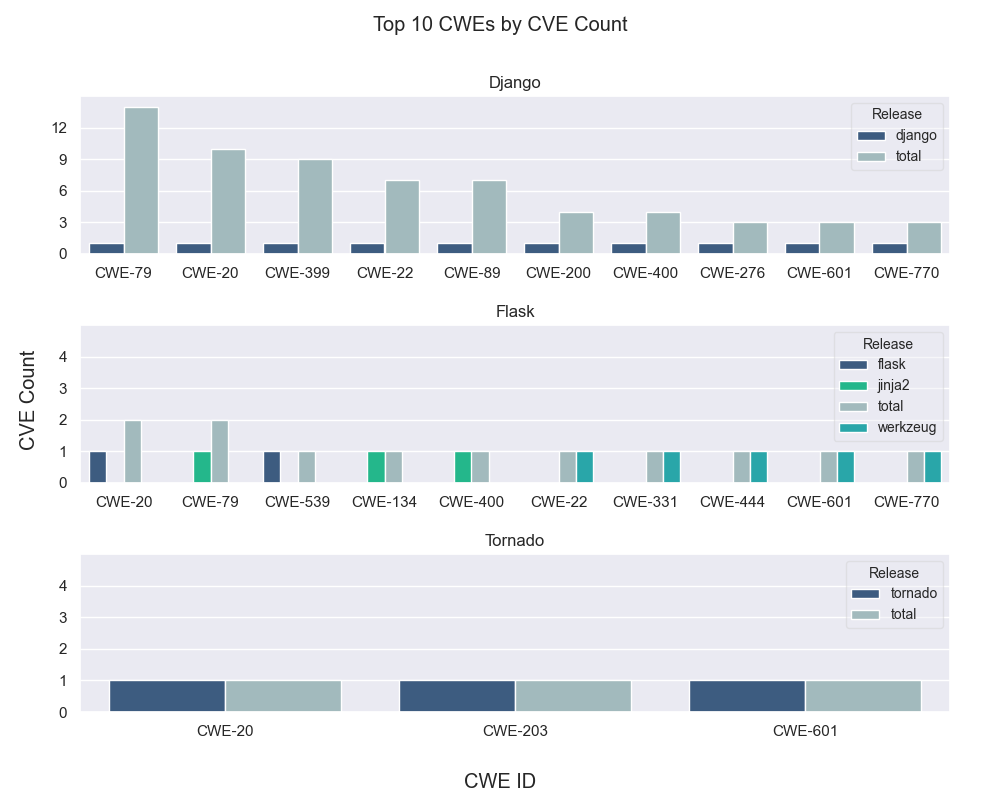
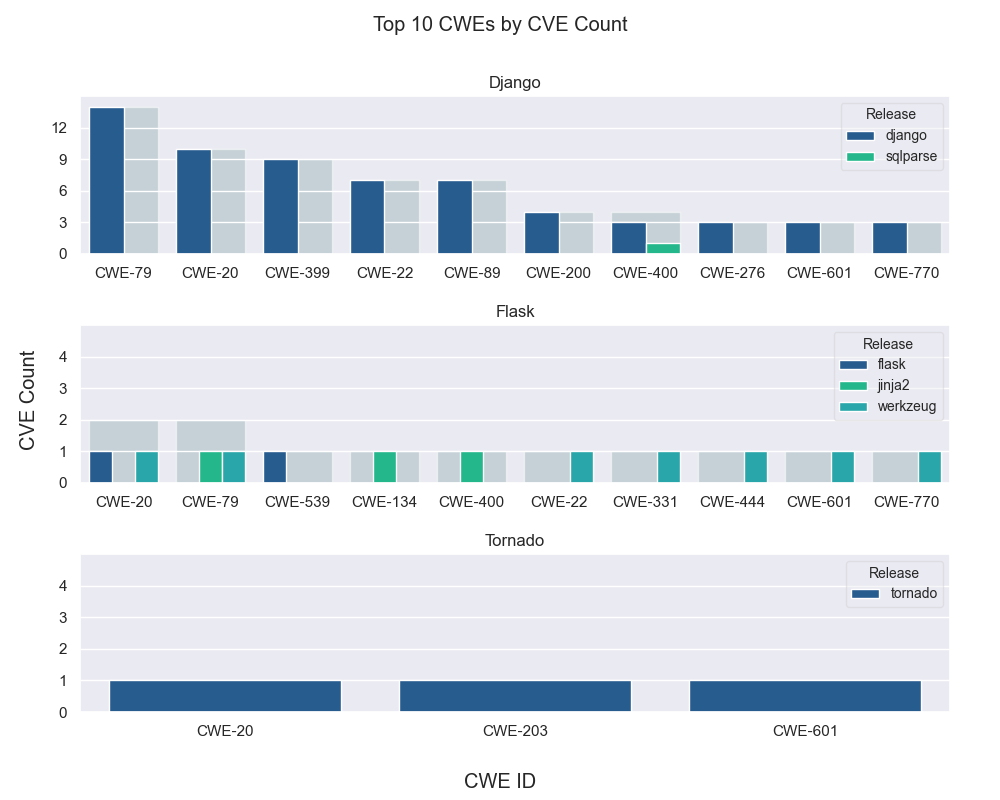
Update CWE plotting and coloring for clarity

diff --git a/scripts/plotter.py b/scripts/plotter.py
@@ -125,7 +125,7 @@ class Global:
     }
 
     class Colours:
-        direct = "#325B8B"
+        direct = "#165DA0"
         indirect = "#0BD095"
         light_grey = "#9EBDC1"
 
@@ -436,7 +436,8 @@ def plot_overall_cwe_distribution(df: pd.DataFrame):
     Plots CWE distribution
     """
     # guarantee uniqueness of the crucial columns
-    df = df.drop_duplicates(subset=['project', 'release', 'cwe_id', 'cve_id'])
+    df = df.drop_duplicates(subset=['project', 'release', 'cwe_id', 'cve_id']).copy()
+    df = df[df['cwe_id'] != None]
     project_names = sorted(list(df['project'].unique()))
     project_count = len(project_names)
     fig, axs = plt.subplots(project_count, 1, figsize=(10, 8))
@@ -448,13 +449,13 @@ def plot_overall_cwe_distribution(df: pd.DataFrame):
             releases = sorted(list(df_project['release'].unique()))
             Global.release_palettes[project] = release_colours(project, *releases)
         palette = Global.release_palettes[project]
-        # cwe count
-        df_cwe_count = df_project.groupby(['cwe_id']).size().reset_index(name='count')
+        # cwe count distinct cve_id
+        df_cwe_count = df_project.groupby(['cwe_id']).size().reset_index(name='count').copy()
         # sort by count descending
         df_cwe_count = df_cwe_count.sort_values(by='count', ascending=False)
         # take head
         df_cwe_count = df_cwe_count.head(10)
-        df_unique = df_project.drop_duplicates(subset=['project', 'cwe_id'])
+        df_unique = df_project[df_project['cwe_id'].isin(df_cwe_count['cwe_id'])]
         # drop the columns that are not in df_cwe_count
         df_unique = df_unique[df_unique['cwe_id'].isin(df_cwe_count['cwe_id'])]
         # add count
@@ -462,15 +463,11 @@ def plot_overall_cwe_distribution(df: pd.DataFrame):
         # add the 'total_count' column
         df_unique['total_count'] = df_unique['cwe_id'].map(df_cwe_count.set_index('cwe_id')['count'])
         # rename the 'release' to "total" for all rows in the cwe_count df
-        df_cwe_count['release'] = 'total'
-        df_cwe_count['total_count'] = df_cwe_count['count']
-        # concatenate the two dataframes
-        df_cwe_count = pd.concat([df_cwe_count, df_unique], ignore_index=True)
-        # sort by total_count and group by release
-        df_cwe_count = df_cwe_count.sort_values(by=['total_count', 'release'], ascending=[False, True])
+        df_unique = df_unique.sort_values(by=['total_count', 'release'], ascending=[False, True])
         # sort by count
-        sns.barplot(data=df_cwe_count, x='cwe_id', y='count', hue='release', ax=ax, palette=palette)
-        max_count = max(df_cwe_count['total_count'])
+        sns.barplot(data=df_unique, x='cwe_id', y='count', hue='release', ax=ax, palette=palette)
+        sns.barplot(data=df_cwe_count, x='cwe_id', y='count', ax=ax, color=Global.Colours.light_grey, alpha=0.5, zorder=0)
+        max_count = max(df_unique['total_count'])
         ylim = max_count + 1 if max_count > 10 else 5
         step = ylim // 5
         ax.set_ylim(0, ylim)
